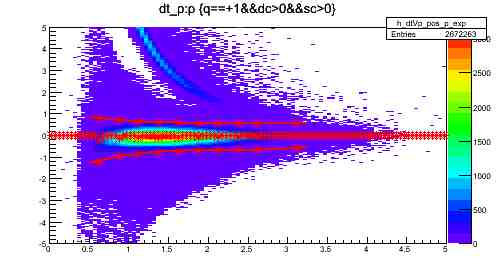
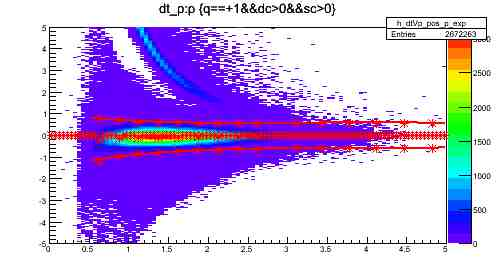
Elastic xsec investigation: + Updated elast_lite infrastructure to study addition of "remaining EID cuts and corrs" 	new file:   elast_lite/dev/get_delast_exp.adtnl_cut_opt 	new file:   elast_lite/dev/get_delast_sim.adtnl_cut_opt 	new file:   elast_lite/dev/make_obs_elastic_lite.adtnl_cut_opt 	new f
+ Before adding z-vertex cut to "remaining EID cuts and corrs", they were studied in a new substudy:
	 modified:   sub_studies/study_vrtx/plot_e_z_vtx.C

+ In preparation to add proton requirement to "remaining EID cuts and corrs" in obtain elastic xsec, updated study_pid to fix problem of PID dt vs. p cut "closing"; now they remain "open" till 5 GeV.
	modified:   sub_studies/study_pid/dtVp_cuts/exp/p/ccut.jpg
	modified:   sub_studies/study_pid/dtVp_cuts/exp/p/cutpars.txt
	modified:   sub_studies/study_pid/dtVp_cuts/exp/pim/ccut.jpg
	modified:   sub_studies/study_pid/dtVp_cuts/exp/pim/cutpars.txt
	modified:   sub_studies/study_pid/dtVp_cuts/exp/pip/ccut.jpg
	modified:   sub_studies/study_pid/dtVp_cuts/exp/pip/cutpars.txt
	modified:   sub_studies/study_pid/dtVp_cuts/sim/p/ccut.jpg
	modified:   sub_studies/study_pid/dtVp_cuts/sim/p/cutpars.txt
	modified:   sub_studies/study_pid/dtVp_cuts/sim/pim/ccut.jpg
	modified:   sub_studies/study_pid/dtVp_cuts/sim/pim/cutpars.txt
	modified:   sub_studies/study_pid/dtVp_cuts/sim/pip/ccut.jpg
	modified:   sub_studies/study_pid/dtVp_cuts/sim/pip/cutpars.txt
	modified:   sub_studies/study_pid/obtain_dtVp_cut.C

Changed region(s): [[0.1815, 0.5314, 0.9073, 0.6199], [0.6048, 0.4133, 0.9073, 0.4723], [0.1512, 0.4133, 0.3931, 0.4723]]

diff --git a/elast_lite/plot_elast_xsec_lite2.C b/elast_lite/plot_elast_xsec_lite2.C
@@ -1,0 +1,200 @@
+#include <TF1.h>
+#include <TH1.h>
+#include <TString.h>
+#include <TCanvas.h>
+#include <TFile.h>
+#include <TMath.h>
+
+void plot_elast_xsec_lite2(TString obsdir, TString sector_bng="full", TString binw="binw-1"){
+  printf("In plot_elast_xsec_lite2(). obsdir=%s,sector_bng=%s\n",obsdir.Data(),sector_bng.Data());
+  TString obs(getenv("idtfr"));
+  printf("obs=%s\n",obs.Data());
+
+  //! Check to see if input args are OK
+  if (sector_bng!="full" && sector_bng!="central"){
+    printf("sector_bng=full or central only. Exiting.\n");
+    return;
+  }
+  if (binw!="binw-1" && binw!="binw-05"){
+    printf("binw=binw-1 or binw-05 only. Exiting.\n");
+    return;
+  }
+  //! Get input data
+  TFile* fER=new TFile(TString::Format("%s/delastER.root",obsdir.Data()));
+  TFile* fSR=new TFile(TString::Format("%s/delastSR.root",obsdir.Data()));
+  TFile* fST=new TFile(TString::Format("%s/delastST.root",obsdir.Data()));
+  TFile* fTT=new TFile(TString::Format("%s/elast_lite/thrtcl_xsec/TT_theta-binw-1.root",getenv("ANA2PI")));
+  if (!fER->IsOpen() || !fSR->IsOpen() || !fST->IsOpen() || !fTT->IsOpen()){
+    printf("One or more of the input files do not exists. Exiting.\n");
+    return;
+  }
+
+  //! Prepare normalization histogram 
+  double LUM=19.844;// #fb^-1
+  double LUM_INVFB_TO_INVMICROB=1000000000.0;
+  double DPHI=0;
+  if (sector_bng=="full"){
+    DPHI=60*TMath::DegToRad();
+  }else if (sector_bng=="central"){
+    DPHI=2*TMath::DegToRad();
+  }
+  int nbins;
+  if      (binw=="binw-1")nbins=32;
+  else if (binw=="binw-05")nbins=64;
+  double theta_min=14;
+  double theta_max=46;
+  TH1D* hlumnorm=new TH1D("lumnorm","lumnorm",nbins,theta_min,theta_max);
+  for (int ibin=0;ibin<nbins;ibin++){
+    double theta_min=hlumnorm->GetBinLowEdge(ibin+1);
+    double theta_max=theta_min+hlumnorm->GetBinWidth(ibin+1);
+    double Dcostheta=fabs(TMath::Cos(theta_max*TMath::DegToRad())-TMath::Cos(theta_min*TMath::DegToRad()));
+    double Domega=Dcostheta*DPHI;
+    hlumnorm->SetBinContent(ibin+1,LUM*LUM_INVFB_TO_INVMICROB*Domega);
+    hlumnorm->SetBinError(ibin+1,0);
+  }
+
+  //! Output
+  TString fout_name="";
+  if (sector_bng=="full"){
+    fout_name="yield_full_sector.root";
+  }else if (sector_bng=="central"){
+    fout_name="yield_central_sector.root";
+  }
+  TFile* fout=new TFile(TString::Format("%s/%s",obsdir.Data(),fout_name.Data()),"RECREATE");
+
+  //! Get histograms
+  //! hTTnorm
+  TH1D* hTTnorm=(TH1D*)fTT->Get("hTTnorm");
+  //! hSR,hST,hSA,hSC,hER,hEC and normalize them as needed
+  const int NSCTR=6;
+  TH1D* hSR[NSCTR];
+  TH1D* hST[NSCTR];
+  TH1D* hSA[NSCTR];
+  TH1D* hSC[NSCTR];
+  TH1D* hER[NSCTR];
+  TH1D* hEC[NSCTR];
+  TH1D* hEClumnorm[NSCTR];
+  for (int isctr=0;isctr<NSCTR;isctr++){
+    TString hname="";
+    if (sector_bng=="full"){
+      hname=TString::Format("hf_s%d",isctr+1);
+    }else if (sector_bng=="central"){
+      hname=TString::Format("hc_s%d",isctr+1);
+    }
+    //! 1. Get SR
+    //hSR[isctr]=(TH1D*)fSR[LTE]->Get(hname.Data());
+    //hSR[isctr]->SetName(TString::Format("hSR_s%d",isctr+1));
+    TH1D* h=(TH1D*)fSR->Get(hname.Data());
+    hSR[isctr]=(TH1D*)h->Clone(TString::Format("hSR_s%d",isctr+1));
+    //! 2. Get ST
+    //hST[isctr]=(TH1D*)fST[LTE]->Get(hname.Data());
+    //hST[isctr]->SetName(TString::Format("hST_s%d",isctr+1));	
+    h=(TH1D*)fST->Get(hname.Data());
+    hST[isctr]=(TH1D*)h->Clone(TString::Format("hST_s%d",isctr+1));
+    //! 3. Calculate SA
+    hSR[isctr]->Sumw2();
+    hST[isctr]->Sumw2();
+    hSA[isctr]=(TH1D*)hSR[isctr]->Clone(TString::Format("hSA_s%d",isctr+1));
+    hSA[isctr]->Divide(hST[isctr]);
+    if (sector_bng=="full"){
+      hSA[isctr]->SetMinimum(0);
+      hSA[isctr]->SetMaximum(0.8);
+    }else if (sector_bng=="central"){
+      hSA[isctr]->SetMinimum(0);
+      hSA[isctr]->SetMaximum(1.2);
+    }
+    //! Calculate SC
+    hSC[isctr]=(TH1D*)hSR[isctr]->Clone(TString::Format("hSC_s%d",isctr+1));
+    hSC[isctr]->Divide(hSA[isctr]);
+    //! 4. Get ER
+    //hER[isctr]=(TH1D*)fER[LTE]->Get(hname.Data());
+    //hER[isctr]->SetName(TString::Format("hER_s%d",isctr));
+    h=(TH1D*)fER->Get(hname.Data());
+    hER[isctr]=(TH1D*)h->Clone(TString::Format("hER_s%d",isctr+1));
+    //! 5. Calculate EC
+    hEC[isctr]=(TH1D*)hER[isctr]->Clone(TString::Format("hEC_s%d",isctr+1));
+    hEC[isctr]->Divide(hSA[isctr]); 
+    //! 6. Calculate EClumnorm
+    hEClumnorm[isctr]=(TH1D*)hEC[isctr]->Clone(TString::Format("hEClumnorm_s%d",isctr+1));
+    hEClumnorm[isctr]->Divide(hlumnorm);
+  }
+  //! Use the following TLine in ratio plots
+  double xmin=hlumnorm->GetXaxis()->GetXmin();
+  double xmax=hlumnorm->GetXaxis()->GetXmax();
+  TLine* ln= new TLine(xmin,1,xmax,1);
+
+  TH1D* hrto_EClumnorm_TTnorm[NSCTR];
+  TCanvas *crto_EClumnorm_TTnorm=new TCanvas("crto_EClumnorm_TTnorm","crto_EClumnorm_TTnorm",1000,800);
+  crto_EClumnorm_TTnorm->Divide(3,2);
+  for (int isctr=0;isctr<NSCTR;isctr++){
+    crto_EClumnorm_TTnorm->cd(isctr+1);
+    hrto_EClumnorm_TTnorm[isctr]=(TH1D*)hEClumnorm[isctr]->Clone(TString::Format("hrto_EClumnorm_TTnorm_s%d",isctr+1));
+    hrto_EClumnorm_TTnorm[isctr]->Divide(hTTnorm);
+    hrto_EClumnorm_TTnorm[isctr]->SetMinimum(0);
+    hrto_EClumnorm_TTnorm[isctr]->SetMaximum(2);
+    hrto_EClumnorm_TTnorm[isctr]->Draw(); 
+    //! if sector=1, then draw TPavetext which is useful for viewing .png of TCanvas
+    if (isctr+1==1){
+      TPaveText *pt = new TPaveText(.30,.70,.90,.80,"NDC");
+      pt->AddText(TString::Format("%s_%s",obs.Data(),sector_bng.Data()));
+      pt->Draw("same");
+    }
+    ln->Draw("same");
+  }
+  crto_EClumnorm_TTnorm->Write();	
+  crto_EClumnorm_TTnorm->SaveAs(TString::Format("%s/crto_EClumnorm_TTnorm_%s.png",obsdir.Data(),sector_bng.Data()));
+
+  TCanvas *cSA=new TCanvas("cSA","cSA");
+  cSA->Divide(3,2);
+  for (int isctr=0;isctr<NSCTR;isctr++){
+    cSA->cd(isctr+1);
+    hSA[isctr]->Draw();
+  }
+  cSA->Write();
+
+  TCanvas *cEC=new TCanvas("cEC","cEC");
+  cEC->Divide(3,2);
+  for (int isctr=0;isctr<NSCTR;isctr++){
+    cEC->cd(isctr+1);
+    hEC[isctr]->Draw();
+  }
+  cEC->Write();
+
+  TCanvas *cER=new TCanvas("cER","cER");
+  cER->Divide(3,2);
+  for (int isctr=0;isctr<NSCTR;isctr++){
+    cER->cd(isctr+1);
+    hER[isctr]->Draw();
+  }
+  cER->Write();
+
+  TCanvas *crto_ER_SR=new TCanvas("crto_ER_SR","crto_ER_SR");
+  crto_ER_SR->Divide(3,2);
+  TH1D* hrto_ER_SR[NSCTR];
+  for (int isctr=0;isctr<NSCTR;isctr++){
+    crto_ER_SR->cd(isctr+1);
+    TH1D* hERn=(TH1D*)hER[isctr]->DrawNormalized("",1000);
+    TH1D* hSRn=(TH1D*)hSR[isctr]->DrawNormalized("sames",1000);
+    hrto_ER_SR[isctr]=(TH1D*)hERn->Clone(TString::Format("rto_ER_SR_s%d",isctr+1));
+    hrto_ER_SR[isctr]->Divide(hSRn);
+    hrto_ER_SR[isctr]->Draw();
+    ln->Draw("same");
+  }
+  crto_ER_SR->Write();
+
+  TCanvas *crto_EC_SC=new TCanvas("crto_EC_SC","crto_EC_SC");
+  crto_EC_SC->Divide(3,2);
+  TH1D* hrto_EC_SC[NSCTR];
+  for (int isctr=0;isctr<NSCTR;isctr++){
+    crto_EC_SC->cd(isctr+1);
+    TH1D* hECn=(TH1D*)hEC[isctr]->DrawNormalized("",1000);
+    TH1D* hSCn=(TH1D*)hSC[isctr]->DrawNormalized("sames",1000);
+    hrto_EC_SC[isctr]=(TH1D*)hECn->Clone(TString::Format("rto_EC_SC_s%d",isctr+1));
+    hrto_EC_SC[isctr]->Divide(hSCn);
+    hrto_EC_SC[isctr]->Draw();
+    ln->Draw("same");
+  }
+  crto_EC_SC->Write();
+
+  fout->Write();
+}

diff --git a/sub_studies/study_pid/obtain_dtVp_cut.C b/sub_studies/study_pid/obtain_dtVp_cut.C
@@ -37,18 +37,46 @@
     c_cut[i]=new TCanvas(TString::Format("cut_dtVp_%s",dtyp_name[i].Data()),TString::Format("cut_dtVp_%s",dtyp_name[i].Data()));
     c_cut[i]->Divide(2,2);
     int nbins[3]={10,5,10}; //!0=p,1=pip,2=pim
-    float pmin[3][11]=
+    float pmin[3][10]=
     {
-      {0.50,0.75,1.00,1.25,1.50,1.75,2.00,2.25,2.50,3.00,0.00},
-      {0.00,0.50,1.00,1.50,2.00,2.50,1.50,1.75,2.00,2.25,2.50},//{0.00,0.25,0.50,0.75,1.00,1.25,1.50,1.75,2.00,2.25,2.50},
-      {0.00,0.25,0.50,0.75,1.00,1.25,1.50,1.75,2.00,2.50,0.00}
+      {0.50,0.75,1.00,1.25,1.50,1.75,2.00,2.25,2.50,3.00},//0.00},
+      {0.00,0.50,1.00,1.50,2.00,2.50,1.50,1.75,2.00,2.25},//2.50},//{0.00,0.25,0.50,0.75,1.00,1.25,1.50,1.75,2.00,2.25,2.50},
+      {0.00,0.25,0.50,0.75,1.00,1.25,1.50,1.75,2.00,2.50}//0.00}
     };
-    float pmax[3][11]=
+    float pmax[3][10]=
     {
-      {0.75,1.00,1.25,1.50,1.75,2.00,2.25,2.50,2.75,3.25,0.00},
-      {0.50,1.00,1.50,2.00,2.50,3.00,1.75,2.00,2.25,2.50,3.00},//{0.25,0.50,0.75,1.00,1.25,1.50,1.75,2.00,2.25,2.50,3.00},
-      {0.25,0.50,0.75,1.00,1.25,1.50,1.75,2.00,2.25,2.75,0.00}
+      {0.75,1.00,1.25,1.50,1.75,2.00,2.25,2.50,2.75,3.25},//,0.00},
+      {0.50,1.00,1.50,2.00,2.50,3.00,1.75,2.00,2.25,2.50},//,3.00},//{0.25,0.50,0.75,1.00,1.25,1.50,1.75,2.00,2.25,2.50,3.00},
+      {0.25,0.50,0.75,1.00,1.25,1.50,1.75,2.00,2.25,2.75}//,0.00}
     };
+    //! Method to obtain fit cure to dt vs. p for high momenta:
+    //! =======================================================
+    //! + Since data beyond 'pmax' defined above is either not available or sparse, fits to dt cannot be made and
+    //! therefore, the fit curve to dt vs. p points cannot be determined in the high momentum bins.
+    //!
+    //! + In order to get fit curves in p region where no data exists, I am going to use dt-mu/sg from the last bin
+    //! in p where there was data to obtain dt-mu/sg
+    //!
+    //! + While the highest p for each particle, I have noted, using sub_studies/study_d2pi_kinematics/plot_d2pi_kin.C for 2pi reaction and TTrees in $DELASTDIR_EXP(SIM)/study_elast_xsec_081715/*.root:/delast) as:
+    //!  + p=3.5GeV and 5GeV for 2pi and Elastic respectively
+    //!  + pip=2.5GeV for 2pi
+    //!  + pim=2.5GeV for 2pi,
+    //!  in this procedure, for reason of aesthetics, I have decided to use maximum p = 5GeV for all particles
+    int nbins_high_p[3]={5,2,2};// chosen so as to use minimum number of bins whose binning can be expressed within 2 decimal places. 
+    float pmin_high_p[3][5]=//! low bin for each particle should be pmax for each particle!
+    {
+      {3.25,3.60,3.95,4.30,4.65},
+      {2.50,3.75,0.00,0.00,0.00},
+      {2.50,3.75.0.00,0.00,0.00} 
+    }; 
+    float pmax_high_p[3][5]=
+    {
+      {3.60,3.95,4.30,4.65,5.00},
+      {3.75,5.00,0.00,0.00,0.00},
+      {3.75,5.00,0.00,0.00,0.00}
+    };
+    //! For each particle, get dt-mu/sg for each pbin and 
+    //! put values into histograms(hcut_h,hcut_l) that will later be fit
     for (int j=0;j<3;j++){
       //clear current cut data for jth particle
       TString cmd=TString::Format(".!rm dtVp_cuts/%s/%s/*",dtyp_name[i].Data(),part_name[j].Data());
@@ -63,6 +91,7 @@
       hcut_h->SetMarkerColor(kRed);
       hcut_l->SetMarkerStyle(kStar);
       hcut_l->SetMarkerColor(kRed);
+      //! fill hcut_l/h with dt obtained from fits in momentum bins
       for (int ibin=0;ibin<nbins[j];ibin++){
         int bmin=h2_dtVp[i][j]->GetXaxis()->FindBin(pmin[j][ibin]);
         int bmax=h2_dtVp[i][j]->GetXaxis()->FindBin(pmax[j][ibin]);
@@ -92,16 +121,35 @@
         hcut_h->SetBinContent(bavg,mean_plus_3sigma);
         hcut_l->SetBinContent(bavg,mean_minus_3sigma);
       }//end p-bin loop
+      //! Now fill hcut_l/h for high momentum bins where there is no data available to fit 
+      //! using the method noted earlier
+      //! Get bin content of the the last p bin where dt-mu/sg was obtained using a fit
+      float pavg_last_fitted_bin=(pmin[j][nbins[j]-1]+pmax[j][nbins[j]-1])/2;
+      float bavg_last_fitted_bin=hmean->GetXaxis()->FindBin(pavg_last_fitted_bin);
+      dt_mean_last_fitted_bin=hmean->GetBinContent(bavg_last_fitted_bin);
+      dt_h_last_fitted_bin=hcut_h->GetBinContent(bavg_last_fitted_bin);
+      dt_l_last_fitted_bin=hcut_l->GetBinContent(bavg_last_fitted_bin);
+      //! Now fill hcut_h/l
+      for (int ibin=0;ibin<nbins_high_p[j];ibin++){
+        float pavg=(pmin_high_p[j][ibin]+pmax_high_p[j][ibin])/2;
+        int bavg=hmean->GetXaxis()->FindBin(pavg);
+        hmean->SetBinContent(bavg,dt_mean_last_fitted_bin);
+        hcut_h->SetBinContent(bavg,dt_h_last_fitted_bin);
+        hcut_l->SetBinContent(bavg,dt_l_last_fitted_bin);
+      }// end high_p-bin loop
+      
       //Fit hcut_l and hcut_h
       TF1 *fl = new TF1("fl","pol3",-3,3);
       TF1 *fh = new TF1("fh","pol3",-3,3);
-      hcut_l->Fit("fl","","",pmin[j][0],pmax[j][nbins[j]-1]); 
-      hcut_h->Fit("fh","","",pmin[j][0],pmax[j][nbins[j]-1]);
+      hcut_l->Fit("fl","","",pmin[j][0],pmax_high_p[j][nbins_high_p[j]-1]);
+      hcut_h->Fit("fh","","",pmin[j][0],pmax_high_p[j][nbins_high_p[j]-1]);
       //c->Close();
       FILE* fcut;
       fcut=fopen(TString::Format("dtVp_cuts/%s/%s/cutpars.txt",dtyp_name[i].Data(),part_name[j].Data()).Data(), "w");
-      fprintf(fcut,"cut_l(pol3:p0:p1:p2:p3) %.2f %.2f %.2f %.2f\n",fl->GetParameter(0),fl->GetParameter(1),fl->GetParameter(2),fl->GetParameter(3)); 
-      fprintf(fcut,"cut_h(pol3:p0:p1:p2:p3) %.2f %.2f %.2f %.2f\n",fh->GetParameter(0),fh->GetParameter(1),fh->GetParameter(2),fh->GetParameter(3));
+      //fprintf(fcut,"cut_l(pol3:p0:p1:p2:p3) %.5f %.5f %.5f %.5f\n",fl->GetParameter(0),fl->GetParameter(1),fl->GetParameter(2),fl->GetParameter(3)); 
+      //fprintf(fcut,"cut_h(pol3:p0:p1:p2:p3) %.5f %.5f %.5f %.5f\n",fh->GetParameter(0),fh->GetParameter(1),fh->GetParameter(2),fh->GetParameter(3));
+      fprintf(fcut,"cut_l(pol3:p0:p1:p2:p3) %f %f %f %f\n",fl->GetParameter(0),fl->GetParameter(1),fl->GetParameter(2),fl->GetParameter(3));
+      fprintf(fcut,"cut_h(pol3:p0:p1:p2:p3) %f %f %f %f\n",fh->GetParameter(0),fh->GetParameter(1),fh->GetParameter(2),fh->GetParameter(3));
       fclose(fcut);
       //! Draw fit
       TCanvas* ccut=new TCanvas("cut","cut");

diff --git a/sub_studies/study_vrtx/plot_e_z_vtx.C b/sub_studies/study_vrtx/plot_e_z_vtx.C
@@ -41,7 +41,7 @@ void plot_e_z_vtx(Long64_t nentries=1000000000){
   leg_sim->Draw();
 
   //sector:exp vs sim
-  gStyle->SetOptStat("nmMrR");
+  gStyle->SetOptStat("nmMrRei");
   Float_t z_vtx_cut_min_exp[6]={-28.25,-27.50,-27.50,-27.50,-28.25,-28.75};
   Float_t z_vtx_cut_max_exp[6]={-23.00,-22.50,-22.25,-22.50,-23.00,-23.50};
   Float_t z_vtx_cut_min_sim[6]={-27.50,-27.50,-27.50,-27.50,-27.50,-27.50};
@@ -59,15 +59,23 @@ void plot_e_z_vtx(Long64_t nentries=1000000000){
     hsim[isctr]->SetLineColor(kRed);
     hexp[isctr]->Sumw2();
     hsim[isctr]->Sumw2();
-    TH1F* hexpn=hexp[isctr]->DrawNormalized("hist E",1000);
+    //! Normalize both to "peak"
+    float max_exp=hexp[isctr]->GetMaximum();
+    float scl_fctr_sim=max_exp/hsim[isctr]->GetMaximum();
+    hsim[isctr]->Scale(scl_fctr_sim);
+    hexp[isctr]->Draw("hist E");
+    hsim[isctr]->Draw("hist E sames");
+    //! Normalize to same area
+    /*TH1F* hexpn=hexp[isctr]->DrawNormalized("hist E",1000);
     TH1F* hsimn=hsim[isctr]->DrawNormalized("hist E sames",1000);
     float ymax=hexpn->GetMaximum();
     ymax=ymax>hsimn->GetMaximum()?ymax:hsimn->GetMaximum();
     ymax+=10;
     hexpn->SetMaximum(ymax);
     hsimn->SetMaximum(ymax);
-    gPad->Update();
+    gPad->Update();*/
     //! Draw z vtx cut
+    float ymax=max_exp+10; //! TLine's y2 coordinate
     lvtxcutmin_exp[isctr]=new TLine(z_vtx_cut_min_exp[isctr],0,z_vtx_cut_min_exp[isctr],ymax);
     lvtxcutmax_exp[isctr]=new TLine(z_vtx_cut_max_exp[isctr],0,z_vtx_cut_max_exp[isctr],ymax);
     lvtxcutmin_sim[isctr]=new TLine(z_vtx_cut_min_sim[isctr],0,z_vtx_cut_min_sim[isctr],ymax);
